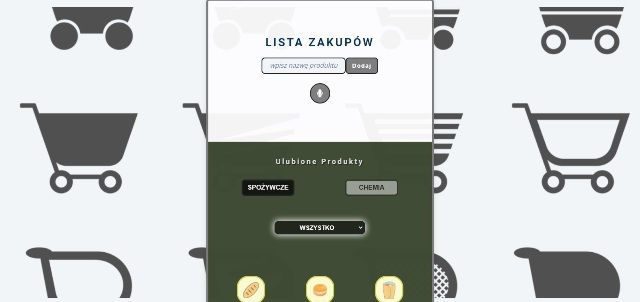
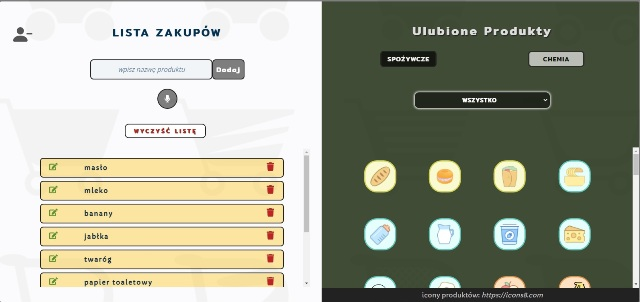
new projects

diff --git a/src/data.js b/src/data.js
@@ -20,7 +20,7 @@ export const projects = [
     info: "Strona internetowa salonu GSM, w którym można kupić, sprzedać lub oddać do serwisu swój smartfon.",
     technology: ["React"],
     githubLink: "https://github.com/Dzarek/RobertTelefony",
-    siteLink: "https://robert-telefony.netlify.app/",
+    siteLink: "https://www.telefony-gorlice.pl/",
     category: "strony www",
   },
   {
@@ -68,9 +68,9 @@ export const projects = [
     title: "Lista Zakupów",
     img: buyListImg,
     info: "Aplikacja do zapisywania swojej listy zakupów. Bardzo pomaga w organizacji zakupów.",
-    technology: ["JavaScript"],
-    githubLink: "https://github.com/Dzarek/buyList",
-    siteLink: "https://buylist.netlify.app/",
+    technology: ["React"],
+    githubLink: "https://github.com/Dzarek/buyListReactMy",
+    siteLink: "https://zakupy-lista.netlify.app/",
     category: "aplikacje",
   },
   {
@@ -152,7 +152,7 @@ export const projectsEn = [
     info: "Website of a GSM salon where you can buy, sell or have your smartphone serviced.",
     technology: ["React"],
     githubLink: "https://github.com/Dzarek/RobertTelefony",
-    siteLink: "https://robert-telefony.netlify.app/",
+    siteLink: "https://www.telefony-gorlice.pl/",
     category: "website",
   },
   {
@@ -200,9 +200,9 @@ export const projectsEn = [
     title: "Buy List",
     img: buyListImg,
     info: "Application for saving your shopping list. It helps a lot in organizing purchases.",
-    technology: ["JavaScript"],
-    githubLink: "https://github.com/Dzarek/buyList",
-    siteLink: "https://buylist.netlify.app/",
+    technology: ["React"],
+    githubLink: "https://github.com/Dzarek/buyListReactMy",
+    siteLink: "https://zakupy-lista.netlify.app/",
     category: "app",
   },
   {
